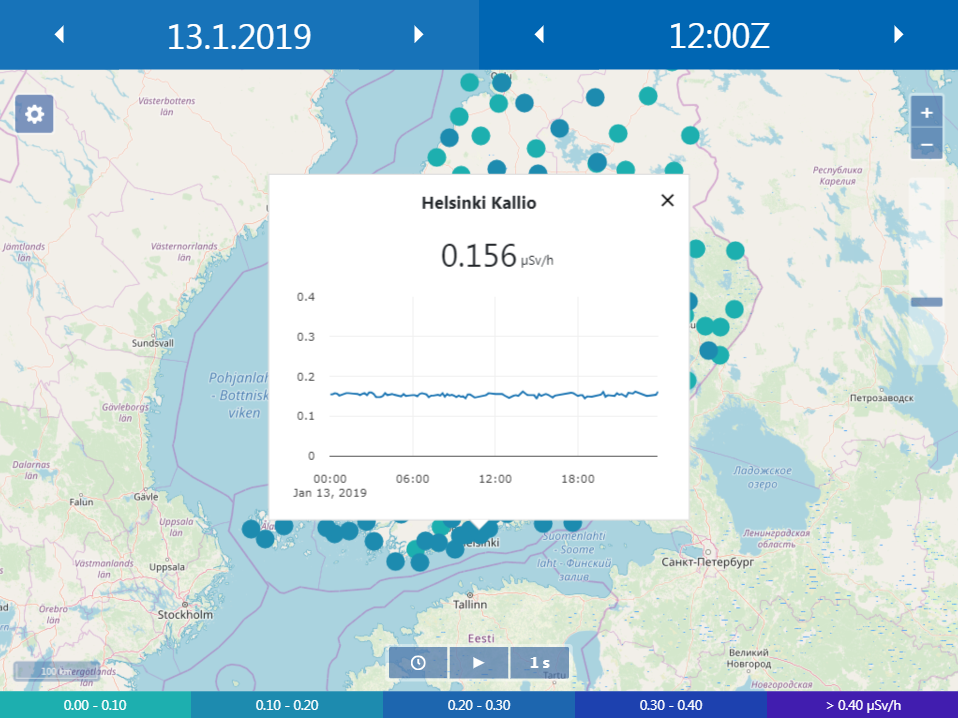
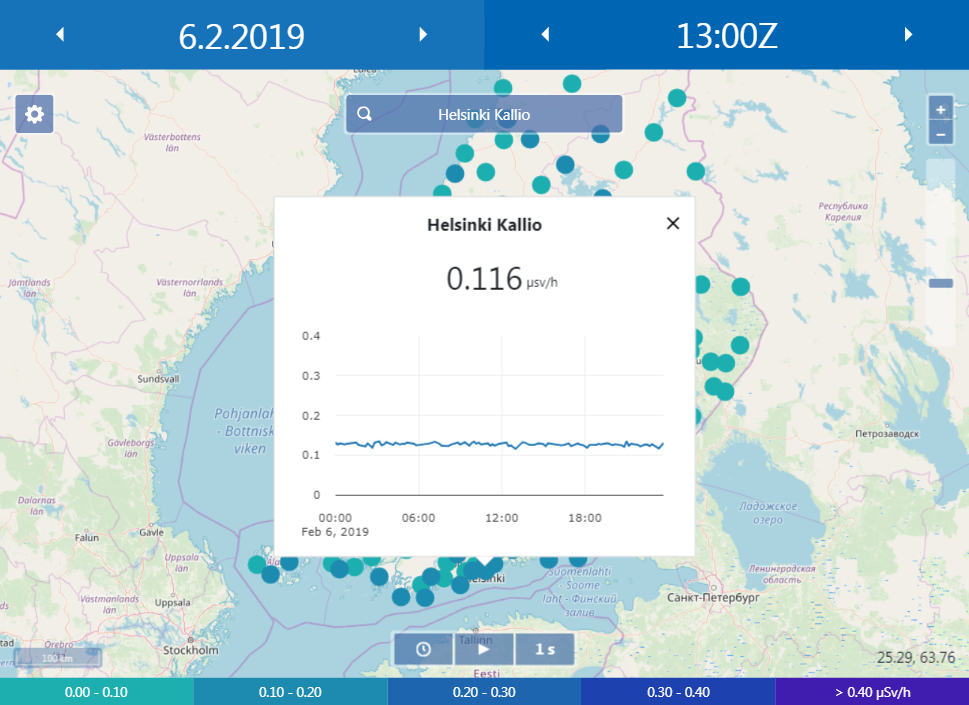
Update documentation

diff --git a/README.md b/README.md
@@ -1,8 +1,15 @@
 # opendata
 
-An independent web application for viewing external radiation results from STUK's monitoring network. The application gets its data from FMI's open data API. The application is hosted at [opendata.stuk.fi](https://opendata.stuk.fi).
+Opendata is an independent web application for viewing external radiation results from STUK's monitoring network. The application gets its data from the Finnish Meteorological Institute's open data API.  The included Python scripts can also be used stand-alone to get the data in GeoJSON format for other purposes. The application is hosted by STUK at [opendata.stuk.fi](https://opendata.stuk.fi).
 
-## 1. Using the application
+- [Using the application](#using-the-application)
+- [Building the application](#building-the-application)
+- [Hosting the application](#hosting-the-application)
+- [Getting data](#getting-data)
+- [Dependencies](#dependencies)
+- [Links](#links)
+
+## Using the application
 
 The following image shows an overview of the application:
 
@@ -10,37 +17,39 @@ The following image shows an overview of the application:
 
 Results are available in increments of 10 minutes. The application uses data local to its hosting server. This means that only data already fetched by the host is available. The available results may thus be incomplete.
 
-Each point on the map represents a single measurement site. A point's color corresponds to the measured dose rate. Hovering a mouse cursor over a point opens a popup showing the site's name and dose rate. Clicking a point opens a larger popup which also includes a time series graph.
+Each point on the map represents a single measurement site. A point's color corresponds to the measured dose rate. Hovering a mouse cursor over a point opens a popover showing the site's name and dose rate. Clicking a point opens a popup which also includes a time series graph.
 
 The time series graph by default displays data for the selected date. Panning the graph causes it to load in and display data for more dates. The graph and its axes are scrollable. Double-clicking the graph or its axes changes how the data displays. Shift-clicking and dragging zooms in on sections of the graph.
 
-At the bottom of the screen is a map legend. It shows dose rate ranges, colors, and the unit of measurement (e.g. microsievert). Clicking a dose rate range toggles the visibility of results that fall within that range.
+At the bottom of the screen is a map legend. It shows dose rate ranges, their colors, and the unit of measurement (e.g. microsievert). Clicking a dose rate range toggles the visibility of results that fall within that range.
 
 The map displays results for a certain date and time. Controls for changing the date and time are at the top of the screen. Clicking the date opens a calendar widget, and clicking the time opens a selection list. The application only allows the selection of dates and times for which data is available. The arrow buttons change the date and time in steps. The application is in UTC time.
 
-The application also comes with a set of basic media controls located at the bottom of the screen. They change the selected date or time with a set interval.
+A search bar allows sites to be located by name. Clicking the search bar displays a list of all sites in alphabetical order. Typing a search term filters the list. A valid search centers the map on the site and opens a popup showing the site's status.
 
-The application is configurable via a settings menu. Open the settings menu by clicking the cog button in the upper-left corner. You can for example change the application's language and datetime formats.
+The application also comes with a set of basic media controls located at the bottom of the screen. They increment the selected date or time with a set interval. Note that playback cannot be started if the selected date or time is already the most recent one.
+
+The application is configurable via a settings page. Open the settings page by clicking the cog icon in the upper-left corner. The settings page includes options for e.g. locale, date format, and dose rate thresholds. Settings are stored in the web browser's local storage.
 
 The application is usable on both mobile devices and desktop computers. Some features such as the media controls are not available on very small screens. Automatic scaling is not implemented for large high resolution screens. Zoom the web page manually to improve usability. Known unsupported browsers include all versions of Internet Explorer.
 
-## 2. Building the application
+## Building the application
 
 1. Clone the repository.
 
 2. Install [Node.js](https://nodejs.org) which includes npm (node package manager).
 
-3. Install the project's dependencies by running `npm install` in the project's root directory.
+3. Install the project's JavaScript dependencies by running `npm install` in the project's root directory.
 
-4. Build the project for production by running `npm run build` in the project's root directory. Build the project for development by running `npm run dev`. The project then rebuilds if any files change.
+4. Build the project for production by running `npm run build` in the project's root directory. Build the project for development by running `npm run serve`. The project then rebuilds if any files change.
 
-## 3. Hosting the application
+## Hosting the application
 
-Build the application and point a web server to the "dist" directory. For local testing use for example the Web Server for Chrome -plugin. For public hosting refer to your web server of choice's documentation.
+Build the application and point a web server to the "dist" directory. For local testing use for example the "Web Server for Chrome" -plugin or the "http-server" command-line http server from npm. For public hosting refer to your web server of choice's documentation.
 
-The application by default gets its map tiles from OpenStreetMap's public servers. For public hosting you should configure the application to use local tiles.
+The application by default gets its map tiles from OpenStreetMap's public servers. For public hosting you should configure the application to use local tiles or some other service. The map tile source URL is configured in the map's Vue component file.
 
-## 4. Getting data
+## Getting data
 
 The application does not contain any data by default. Python scripts for fetching and processing data are in the "scripts" directory. Install all Python dependencies before running the scripts.
 
@@ -50,11 +59,11 @@ Create a copy of the file "settings.example.json" in the "scripts" directory and
 
 To keep the application up-to-date schedule the "get_data.py" script. The following crontab configuration runs the script every 10 minutes. The configuration changes directory to the scripts directory. This is due to relative paths in the scripts. Task Scheduler provides similar functionality on Windows.
 
-`*/10 * * * * cd /home/lma/opendata/src/scripts/; /bin/python3 /home/lma/opendata/src/scripts/get_data.py dose_rates`
+`*/10 * * * * cd /home/lma/opendata/scripts/; /bin/python3 /home/lma/opendata/scripts/get_data.py dose_rates`
 
 The "get_data.py" script also generates time series data and updates a metadata file. It performs these tasks when it fetches new results. To regenerate all time series data run the "time_series.py" script. To update the metadata file run the "metadata.py" script. You do not need to run these scripts under normal operation.
 
-## 5. Dependencies
+## Dependencies
 
 See the file "package.json" for a list of JavaScript dependencies.
 
@@ -62,7 +71,7 @@ npm (included with Node.js)<br>
 Python 3<br>
 [Requests](https://github.com/requests/requests) Python library
 
-## 6. Links
+## Links
 
 https://www.stuk.fi/avoin-data<br>
 https://en.ilmatieteenlaitos.fi/open-data<br>
